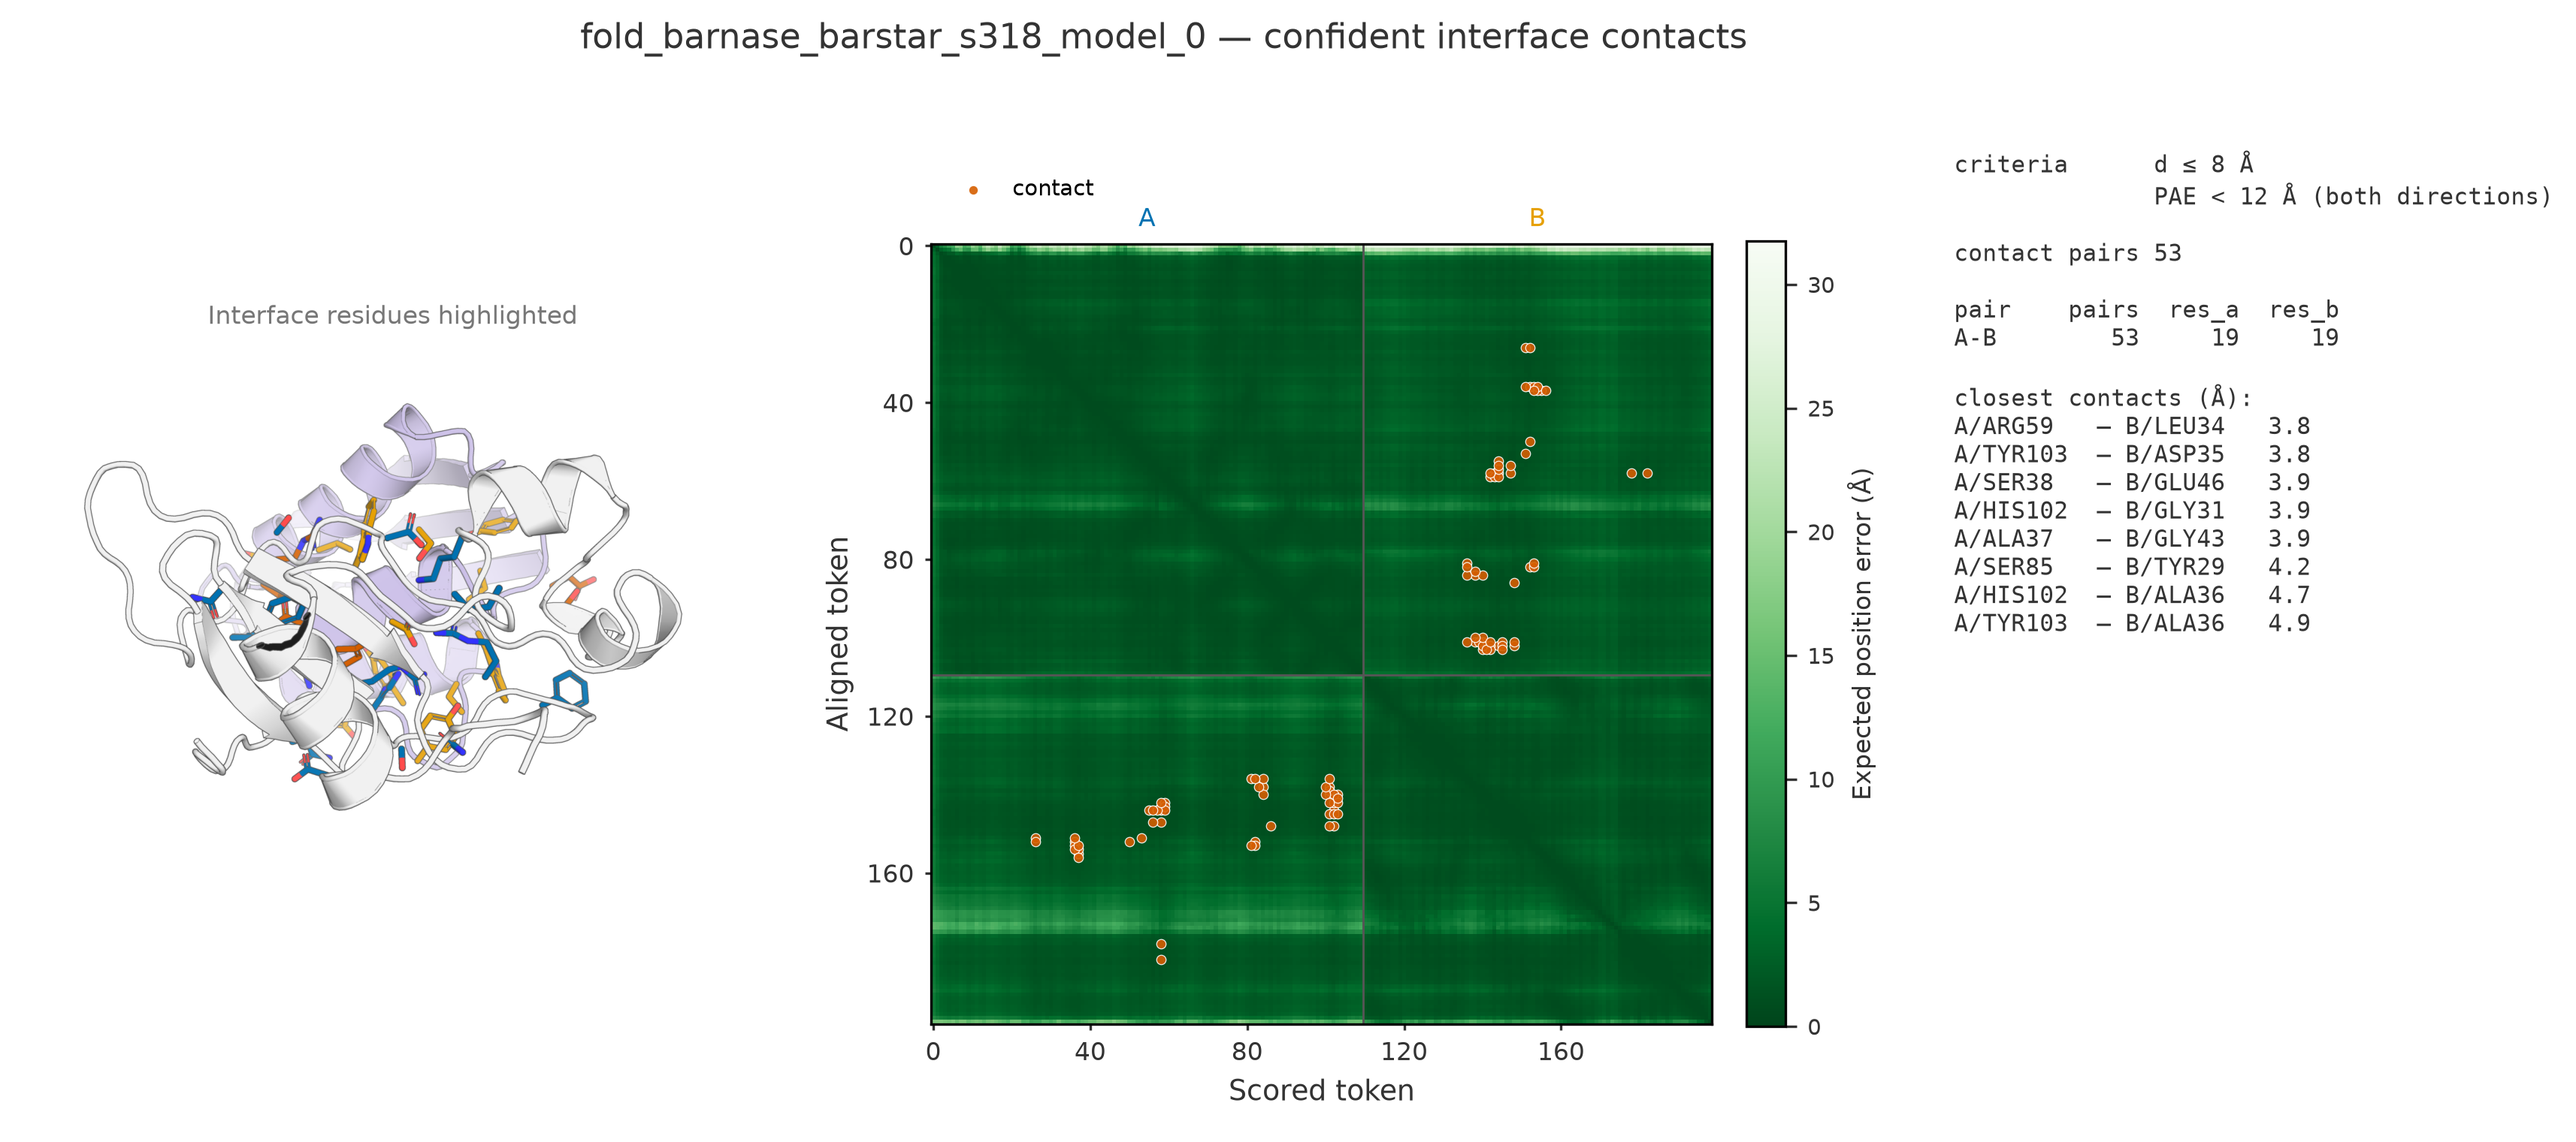
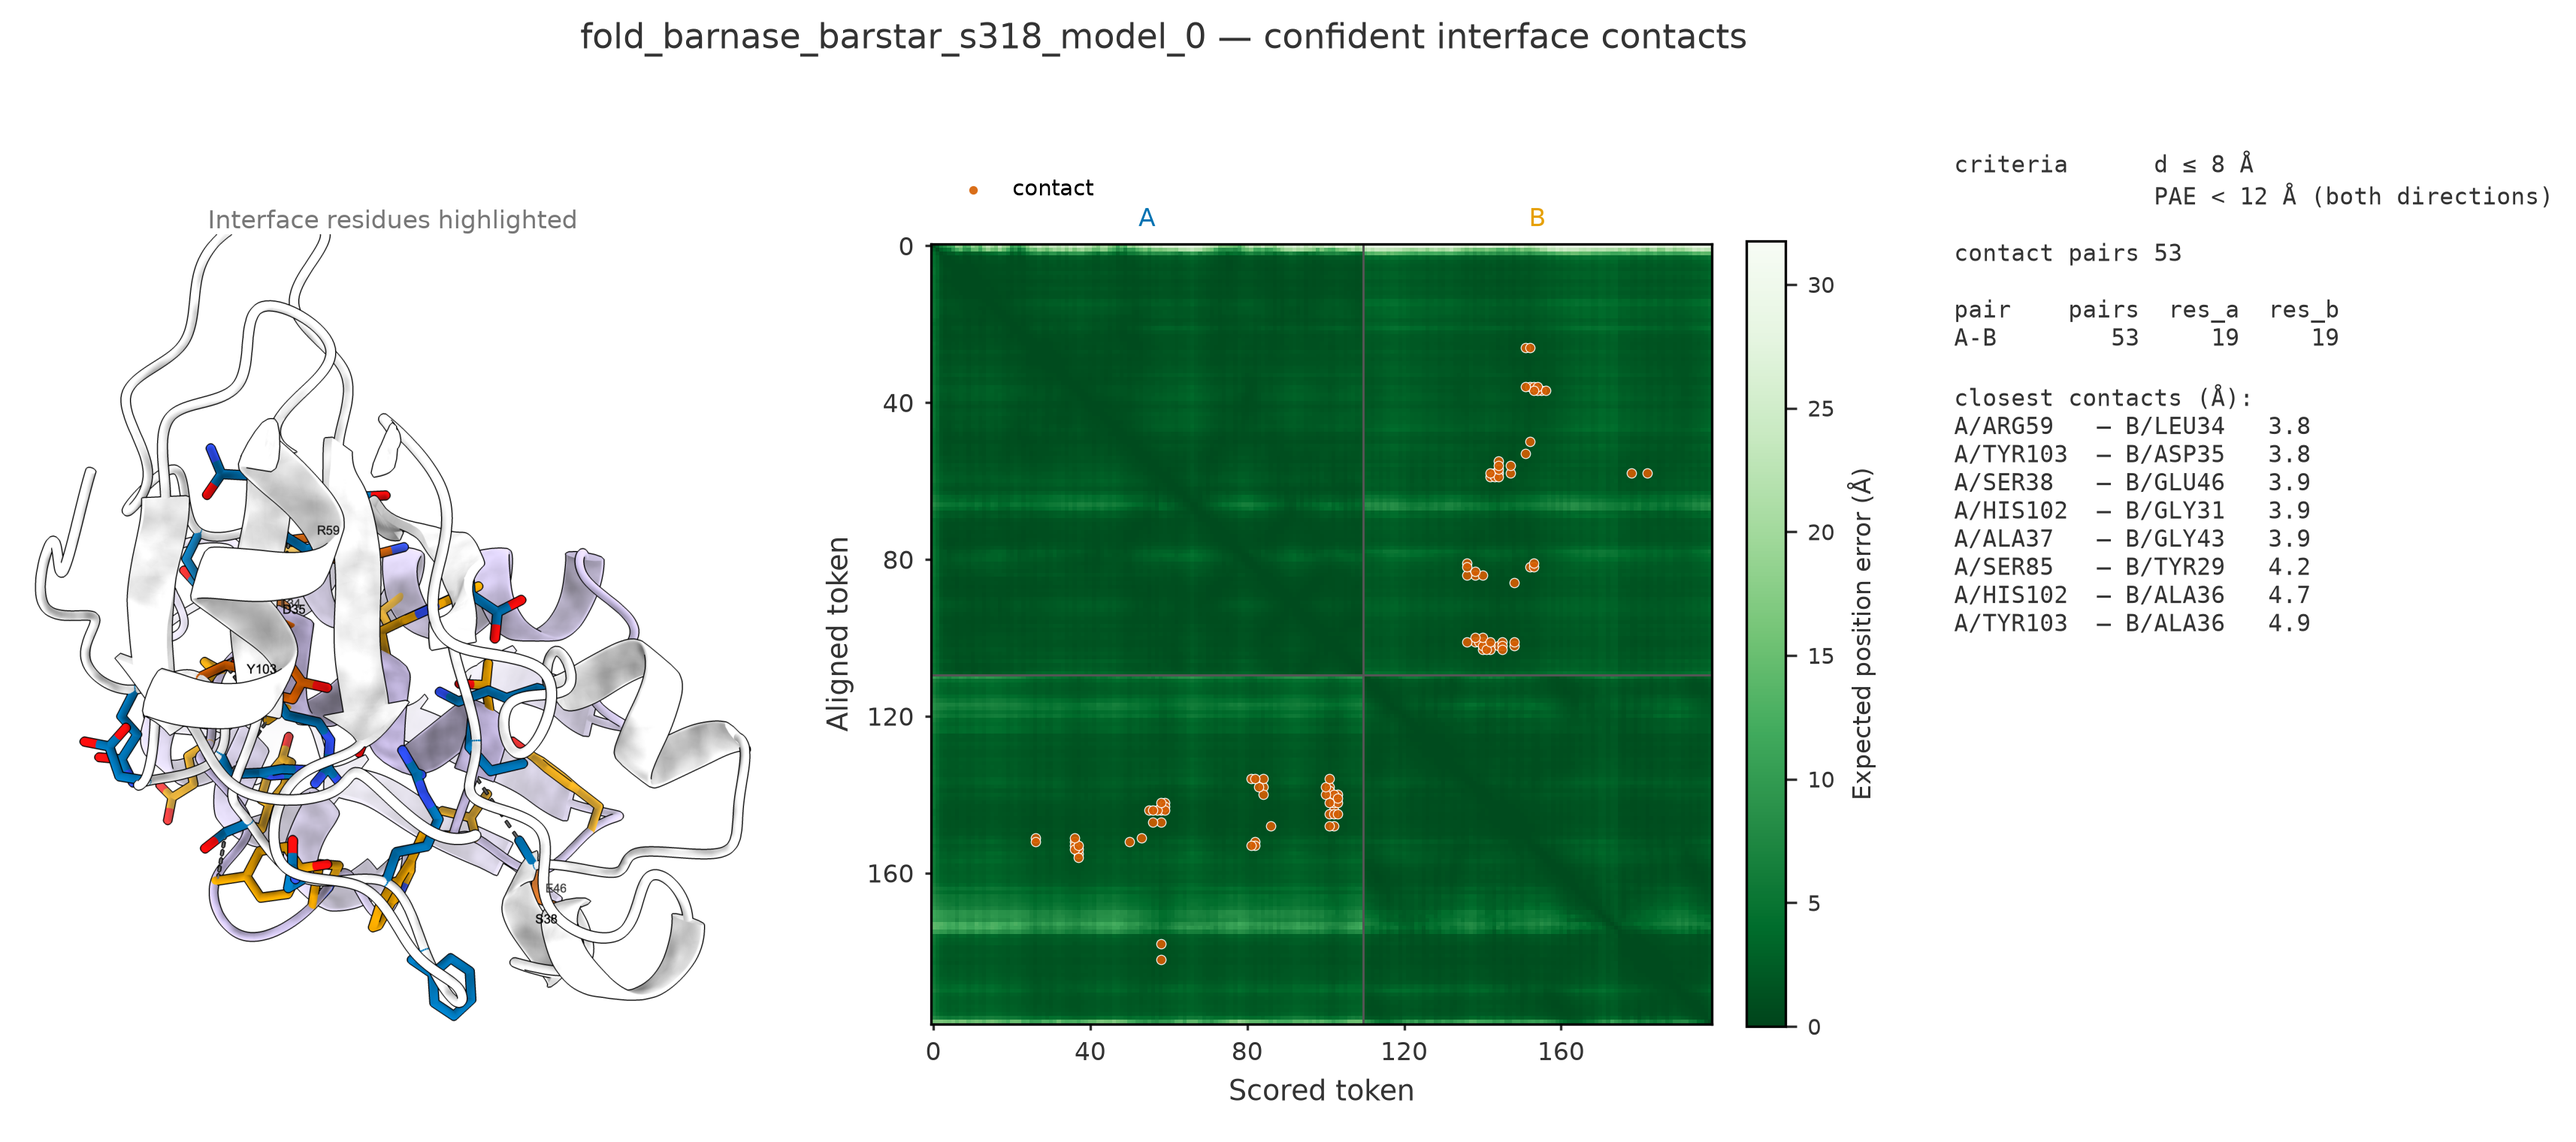
Fix PyMOL session bugs, ChimeraX render in contact figure
- PyMOL preset: the structure object was named 'model', a reserved
  selection keyword, so every dashed contact line silently failed to
  build; renamed to fm_model
- interface side chains were shown without their CA attachment and
  appeared to float; full-residue sticks with cartoon_side_chain_helper
  keep them anchored to the cartoon
- plot_contact_map/save_contact_plot accept structure_image= to use a
  custom still (e.g. saved from the ChimeraX session) as the left panel;
  the README contact figure now uses a ChimeraX silhouette render

Changed region(s): [[0.0, 0.3399, 0.3121, 0.8961], [0.0624, 0.2472, 0.2185, 0.309], [0.0624, 0.1854, 0.2185, 0.2163]]

diff --git a/src/foldmetrics/viz.py b/src/foldmetrics/viz.py
@@ -421,10 +421,13 @@ def _contact_structure_panel(
     highlight: dict[str, list[int]],
     hotspots: dict[str, list[int]],
     pairs: list[tuple] | None = None,
+    structure_image: str | Path | None = None,
 ) -> None:
     color_of = {c: chain_color(i) for i, c in enumerate(pred.chains)}
     image = None
-    if renderer in ("auto", "pymol"):
+    if structure_image is not None and Path(structure_image).exists():
+        image = plt.imread(str(structure_image))
+    if image is None and renderer in ("auto", "pymol"):
         from foldmetrics.render import render_contacts
 
         tmp = Path(tempfile.mkstemp(suffix=".png")[1])
@@ -464,8 +467,13 @@ def plot_contact_map(
     dist_cutoff: float = 8.0,
     pae_cutoff: float | None = 12.0,
     renderer: str = "auto",
+    structure_image: str | Path | None = None,
 ) -> plt.Figure:
-    """Confident-contact figure: highlighted structure + PAE with contact overlay."""
+    """Confident-contact figure: highlighted structure + PAE with contact overlay.
+
+    ``structure_image`` swaps in a pre-rendered structure picture (e.g. a
+    ChimeraX still saved from the generated session) for the left panel.
+    """
     highlight = contact_highlight(contacts)
     hotspots = contact_hotspots(contacts)
     pairs = contact_pair_atoms(contacts)
@@ -494,7 +502,8 @@ def plot_contact_map(
         structure_slot = gs[0, 0]
 
     _contact_structure_panel(
-        pred, fig, structure_slot, renderer, highlight, hotspots, pairs
+        pred, fig, structure_slot, renderer, highlight, hotspots, pairs,
+        structure_image=structure_image,
     )
     ax_text.axis("off")
     ax_text.text(
@@ -514,8 +523,12 @@ def save_contact_plot(
     pae_cutoff: float | None = 12.0,
     renderer: str = "auto",
     dpi: int = 300,
+    structure_image: str | Path | None = None,
 ) -> Path:
-    fig = plot_contact_map(pred, contacts, dist_cutoff, pae_cutoff, renderer)
+    fig = plot_contact_map(
+        pred, contacts, dist_cutoff, pae_cutoff, renderer,
+        structure_image=structure_image,
+    )
     path = Path(path)
     path.parent.mkdir(parents=True, exist_ok=True)
     fig.savefig(path, dpi=dpi, bbox_inches="tight", facecolor="white")

diff --git a/src/foldmetrics/render.py b/src/foldmetrics/render.py
@@ -130,7 +130,7 @@ def contacts_pymol_commands(
     """
     lines = [
         "bg_color white",
-        f"load {structure_path}, model",
+        f"load {structure_path}, fm_model",
         "hide everything",
         "show cartoon",
         "set cartoon_fancy_helices, 1",
@@ -160,9 +160,9 @@ def contacts_pymol_commands(
         name = f"if_{chain}"
         lines.append(f"set_color fm_accent_{chain}, {_hex_rgb(chain_colors[chain])}")
         lines.append(f"select {name}, chain {chain} and resi {_resi_ranges(res_ids)}")
-        lines.append(f"show sticks, {name} and (sidechain or hetatm)")
-        lines.append(f"color fm_accent_{chain}, {name} and (sidechain or hetatm)")
-        lines.append(f"util.cnc {name} and (sidechain or hetatm)")
+        lines.append(f"show sticks, {name}")
+        lines.append(f"color fm_accent_{chain}, {name}")
+        lines.append(f"util.cnc {name}")
         selections.append(name)
 
     hot_parts = [
@@ -173,7 +173,7 @@ def contacts_pymol_commands(
     if hot_parts:
         lines.append(f"select hotspots, {' or '.join(hot_parts)}")
         lines.append(f"set_color fm_hotspot, {_hex_rgb(HOTSPOT_COLOR)}")
-        lines.append("color fm_hotspot, hotspots and (sidechain or hetatm) and elem C")
+        lines.append("color fm_hotspot, hotspots and elem C")
         if labels:
             lines.append('label hotspots and name CA, one_letter[resn]+resi')
             lines.append("set label_size, 15")
@@ -182,8 +182,8 @@ def contacts_pymol_commands(
     for k, (ca, ra, aa, cb, rb, ab) in enumerate(pairs or []):
         lines.append(
             f"distance fm_contact_{k}, "
-            f"model and chain {ca} and resi {ra} and name {aa}, "
-            f"model and chain {cb} and resi {rb} and name {ab}"
+            f"fm_model and chain {ca} and resi {ra} and name {aa}, "
+            f"fm_model and chain {cb} and resi {rb} and name {ab}"
         )
         lines.append(f"hide labels, fm_contact_{k}")
 
